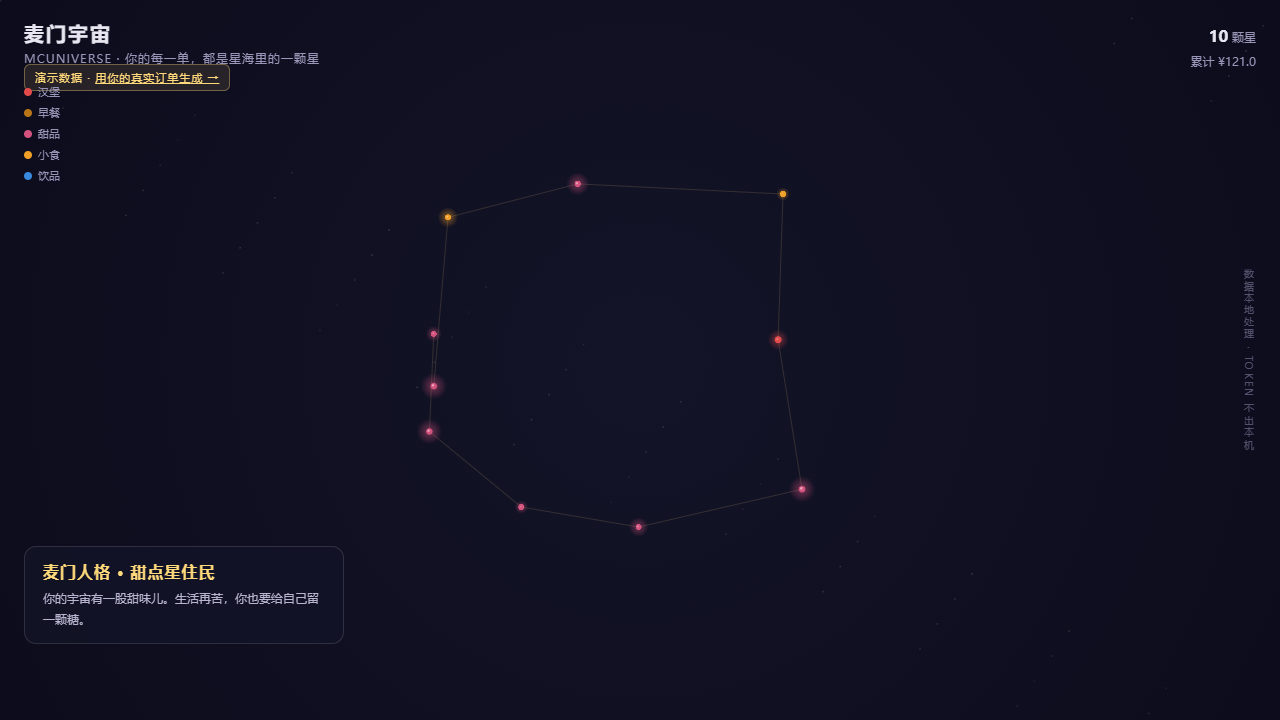
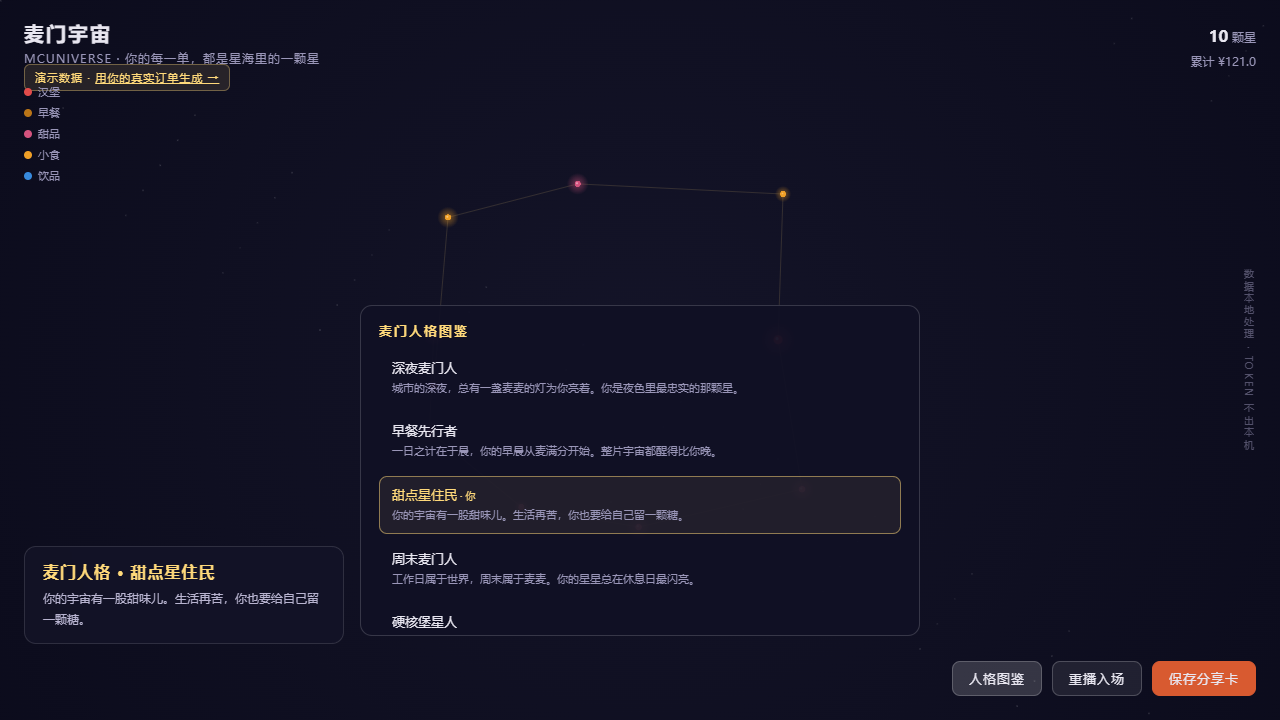
Docs: README persona dex + dessert demo, workbuddy session 4

diff --git a/README.md b/README.md
@@ -8,15 +8,15 @@
 
 ## 在线演示
 
-[打开演示星图（模拟数据）](https://tianwenzzzh.github.io/mcd-universe/demo/) —— 无需 Token，直接看效果。
-[预览 0 单「星云」状态](https://tianwenzzzh.github.io/mcd-universe/demo/?nebula=1)
+[打开演示星图 · 深夜麦门人（模拟数据）](https://tianwenzzzh.github.io/mcd-universe/demo/) —— 无需 Token，直接看效果。
+[甜点星住民版演示](https://tianwenzzzh.github.io/mcd-universe/demo/dessert.html) · [预览 0 单「星云」状态](https://tianwenzzzh.github.io/mcd-universe/demo/?nebula=1)
 
 ![星图截图](docs/assets/demo-desktop-v2.png)
 
 ## 功能
 
 - **麦门星图**：每一笔订单化为一颗星——颜色=餐品品类（汉堡/早餐/甜品/小食/饮品），星等=消费频次与金额，位置=下单时间，相邻订单连成星座线。粒子汇聚「麦门宇宙」四字后炸开成星图，点击星点看订单详情，移动端自适应。
-- **麦门人格**：基于订单模式的趣味鉴定（深夜麦门人 / 早餐先行者 / 甜点星住民 / 周末麦门人 / 硬核堡星人 / 麦门探索者 / 麦门旅人），全部正面向。
+- **麦门人格 × 图鉴**：7 种正面向人格（深夜麦门人 / 早餐先行者 / 甜点星住民 / 周末麦门人 / 硬核堡星人 / 麦门探索者 / 麦门旅人）——鉴定你的人格，图鉴里全员亮相、你的那枚高亮。宇宙不只有深夜，每一种吃麦方式都有一颗星。
 - **分享卡**：一键导出 1080×1440 竖版 PNG（等比裁剪防变形），晒出你的麦门宇宙。
 - **积分哨兵**：积分余额与「下月过期」提醒，守住每一分。
 - **今日麦签**：联动官方活动日历，每天一个麦麦活动彩蛋。

diff --git a/workbuddy.md b/workbuddy.md
@@ -73,7 +73,16 @@
 
 **验证**：Python 9 测试 + 模板静态检查 + Node 语法检查 + 浏览器四态实测，全绿。
 
-## 会话四 · 2026-10-23 白天（计划）
-- 用户决策：是否下一单真实订单播种（A 方案）
-- 传播弹药预制：小红书 3 套文案、掘金技术文
-- 冲星节奏执行（见作战方案第 3 节）
+## 会话四 · 2026-10-22 深夜续（人格图鉴 + 致命按钮 bug）
+
+**用户指令**：麦门宇宙不必只局限于深夜的。
+
+**产品响应**：
+- `PERSONAS` 重构为单一数据源（star_model.py），detect_personality 只返回名字，文案从图鉴取——鉴定与图鉴永不漂移；
+- 渲染器新增「人格图鉴」面板：7 种人格全员亮相，用户自己的那枚金框高亮 +「· 你」徽章——宇宙宽度直接写进产品；
+- 新增第二套演示数据（甜品重度 7/10 单 → 甜点星住民），demo/dessert.html 上线，与深夜版并列——breadth 有实证；
+- README 功能段改写：人格 × 图鉴并列，明言"宇宙不只有深夜"。
+
+**抓出全场最致命的 bug**：`#actions` 漏写 `position: absolute` → `right/bottom` 失效，三个按钮（人格图鉴/重播入场/**保存分享卡**）以静态流布局贴在左上角，且被全屏画布完全覆盖（elementFromPoint 证实 top=sky）——**真实用户一个按钮都点不着，分享卡（传播引擎）自出生起就是死的**。修复后按钮归位右下角、可点击，图鉴面板实测弹出（7 项渲染 + 自己的高亮），移动端三按钮横排无重叠。
+
+**验证**：9 测试 + 模板 lint + 真实鼠标点击图鉴 ✓ + 桌面/移动端截图 ✓。
